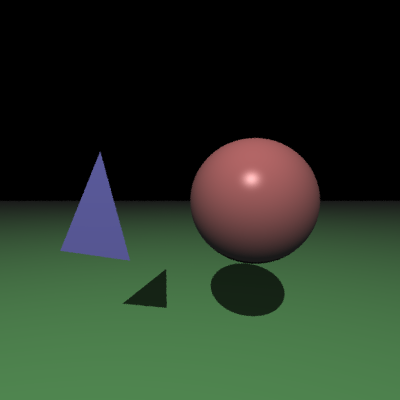
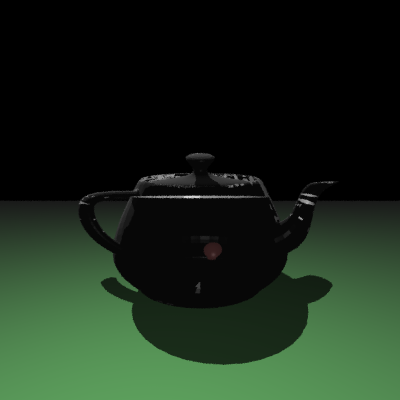
Implemented buggy mesh BVH

Changed region(s): [[0.15, 0.33, 0.84, 0.93], [0.3, 0.99, 0.48, 1.0]]

diff --git a/src/util/mesh.rs b/src/util/mesh.rs
@@ -4,8 +4,9 @@ use std::borrow::BorrowMut;
 use tobj::{self, Mesh};
 use cgmath::*;
 use std::mem;
+use rand::Rng;
 
-use super::tracing::{self, Intersectable};
+use super::tracing::{self, Intersectable, Triangle};
 
 type Vec3 = Vector3<f32>;
 
@@ -28,6 +29,13 @@ impl AABB {
                 f32::max(a.max.y, b.max.y),
                 f32::max(a.max.z, b.max.z),
             ),
+        }
+    }
+}
+impl Default for AABB {
+    fn default() -> AABB {
+        AABB {
+           min: Vec3::zero(), max: Vec3::zero(),
         }
     }
 }
@@ -62,15 +70,62 @@ impl tracing::Intersectable for AABB {
     }
 }
 
-// trees are apparently difficult to use in rust.
-// i'll use the method suggested here: https://dev.to/deciduously/no-more-tears-no-more-knots-arena-allocated-trees-in-rust-44k6#:~:text=One%20such%20category%20is%20tree,Rust%20hates%20that.
+#[derive(Default)]
 pub struct BVHNode {
-    pub idx: usize,
-    pub parent: Option<usize>,
     pub aabb: AABB,
     pub left: Option<Box<BVHNode>>,
     pub right: Option<Box<BVHNode>>,
     pub primitive: Option<Box<dyn Intersectable>>,
+}
+impl BVHNode {
+    pub fn build_from_mesh(mesh: &Mesh) -> Box<BVHNode> {
+        print!("Building BVH...");
+        let mut objects = Vec::new();
+        // populate array of total objects (inefficient for now)
+        // aka: iterate over triangles
+        for i in (0..mesh.indices.len()).step_by(3) {
+            // load vertices
+            let (x,y,z) = (mesh.indices[i] as usize, mesh.indices[i+1] as usize, mesh.indices[i+2] as usize);
+            let a = vec3(mesh.positions[x*3], mesh.positions[x*3+1], mesh.positions[x*3+2]);
+            let b = vec3(mesh.positions[y*3], mesh.positions[y*3+1], mesh.positions[y*3+2]);
+            let c = vec3(mesh.positions[z*3], mesh.positions[z*3+1], mesh.positions[z*3+2]);
+           // create triangle
+           objects.push(tracing::Triangle {a: a, b: b, c: c, albedo: vec3(0.5,0.5,0.5)});
+        }
+        let start: usize = 0;
+        let end = objects.len();
+        let node = BVHNode::build_from_mesh_helper(&mut objects, start, end);        
+        println!("Done.");
+        return node;
+    }
+    fn build_from_mesh_helper(objects: &mut Vec<tracing::Triangle>, start: usize, end: usize) -> Box<BVHNode> {
+        let mut node = BVHNode::default();
+        if end-start == 1 {
+            // make the node a leaf
+            node.primitive = Some(Box::new(objects[start].clone()));
+            node.aabb = objects[start].bounding_box().unwrap_or_default();
+        }
+        else {
+            // sort segment by random axis
+            let mut rng = rand::thread_rng();
+            let axis: usize = rng.gen_range(0..3);
+            let comparator = |a: &Triangle, b: &Triangle| {
+                let f = a.bounding_box().unwrap_or_default().min[axis];
+                let g = b.bounding_box().unwrap_or_default().min[axis];
+                f.partial_cmp(&g).unwrap_or(std::cmp::Ordering::Equal)
+            };
+            objects[start..end].sort_by(comparator);
+            // recurse on each side
+            let mid = start + (end-start)/2;
+            let left  = Self::build_from_mesh_helper(objects, start, mid);
+            let right = Self::build_from_mesh_helper(objects, mid, end);
+            node.aabb = AABB::aabb_surrounding(&left.aabb, &right.aabb);
+            node.left = Some(left);
+            node.right = Some(right);
+        }
+        Box::new(node)
+    }
+
 }
 impl tracing::Intersectable for BVHNode {
     fn intersect_ray(&self, ray: &tracing::Ray, t_min: f32, t_max: f32) -> Option<tracing::RayHit> {
@@ -130,7 +185,7 @@ fn compute_normals(mesh: &mut Mesh) {
 }
 
 
-pub fn run() {
+pub fn get_mesh() -> Mesh {
     // load obj
     let obj = tobj::load_obj(
         "./obj/teapot.obj",
@@ -148,12 +203,11 @@ pub fn run() {
     println!("# of models: {}", models.len());
     println!("# of materials: {}", materials.len());
     
-    // compute normals if not present
     let teapot = (models[0].mesh).borrow_mut();
-    if teapot.normals.is_empty() {
-        compute_normals(teapot);
-    }
-    assert!(!teapot.normals.is_empty());
-
-    
+    // // compute normals if not present
+    // if teapot.normals.is_empty() {
+    //     compute_normals(teapot);
+    // }
+    // assert!(!teapot.normals.is_empty());
+    teapot.clone()
 }

diff --git a/src/util/tracing.rs b/src/util/tracing.rs
@@ -9,7 +9,7 @@ use image::*;
 use cgmath::*;
 use rand::Rng;
 
-use super::mesh::AABB;
+use super::mesh::{AABB, get_mesh};
 
 // constants & typedefs
 type Vec3 = Vector3<f32>;
@@ -62,6 +62,7 @@ pub struct Sphere {
     pub radius: f32,
     pub albedo: Vec3,
 }
+#[derive(Debug, Clone, Copy)]
 pub struct Triangle {
     pub a: Vec3,
     pub b: Vec3,
@@ -127,6 +128,7 @@ impl Camera {
 }
 impl Scene {
     pub fn render_to_image(&self) -> DynamicImage {
+        print!("Rendering...");
         // create image and iterate through its pixels
         let mut img = DynamicImage::new_rgb8(self.camera.screen_width, self.camera.screen_height);
         for x in 0..self.camera.screen_width {
@@ -154,6 +156,7 @@ impl Scene {
                 img.put_pixel(x, y, color_rgb);
             }
         }
+        println!("Done.");
         return img;
     }
     fn phong_shade_hit(&self, hit: &RayHit) -> Color {
@@ -301,7 +304,7 @@ pub fn run() {
     // initialize scene
     let scene = Scene {
         camera: Camera {
-            eyepoint: Vec3::zero(),
+            eyepoint: vec3(0.0, 2.0, 5.0),
             view_dir: -Vec3::unit_z(),
             up: Vec3::unit_y(),
             view_plane_dist: 0.2,
@@ -329,6 +332,7 @@ pub fn run() {
                 c: vec3(-1.0, 0.5, -2.0),
                 albedo: vec3(0.3,0.3,0.6),
             }),
+            super::mesh::BVHNode::build_from_mesh(&get_mesh())
         ],
         point_light_pos: vec3(-1.0,5.0,5.0),
         ambient: vec3(0.1,0.1,0.1),

diff --git a/README.md b/README.md
@@ -22,3 +22,8 @@ Michael Korenchan | Computer Science | Univesity of Illinois
   - Imported obj parser
   - Implemented obj normal generation
   - Implemented basic AABB ray intersection test
+- **Week of Feb 21:**
+  - Defined BVH structure
+  - Implemented BVH intersection test
+  - Implemented (inefficient) BVH construction
+  - Now drawing buggy picture of teapot
